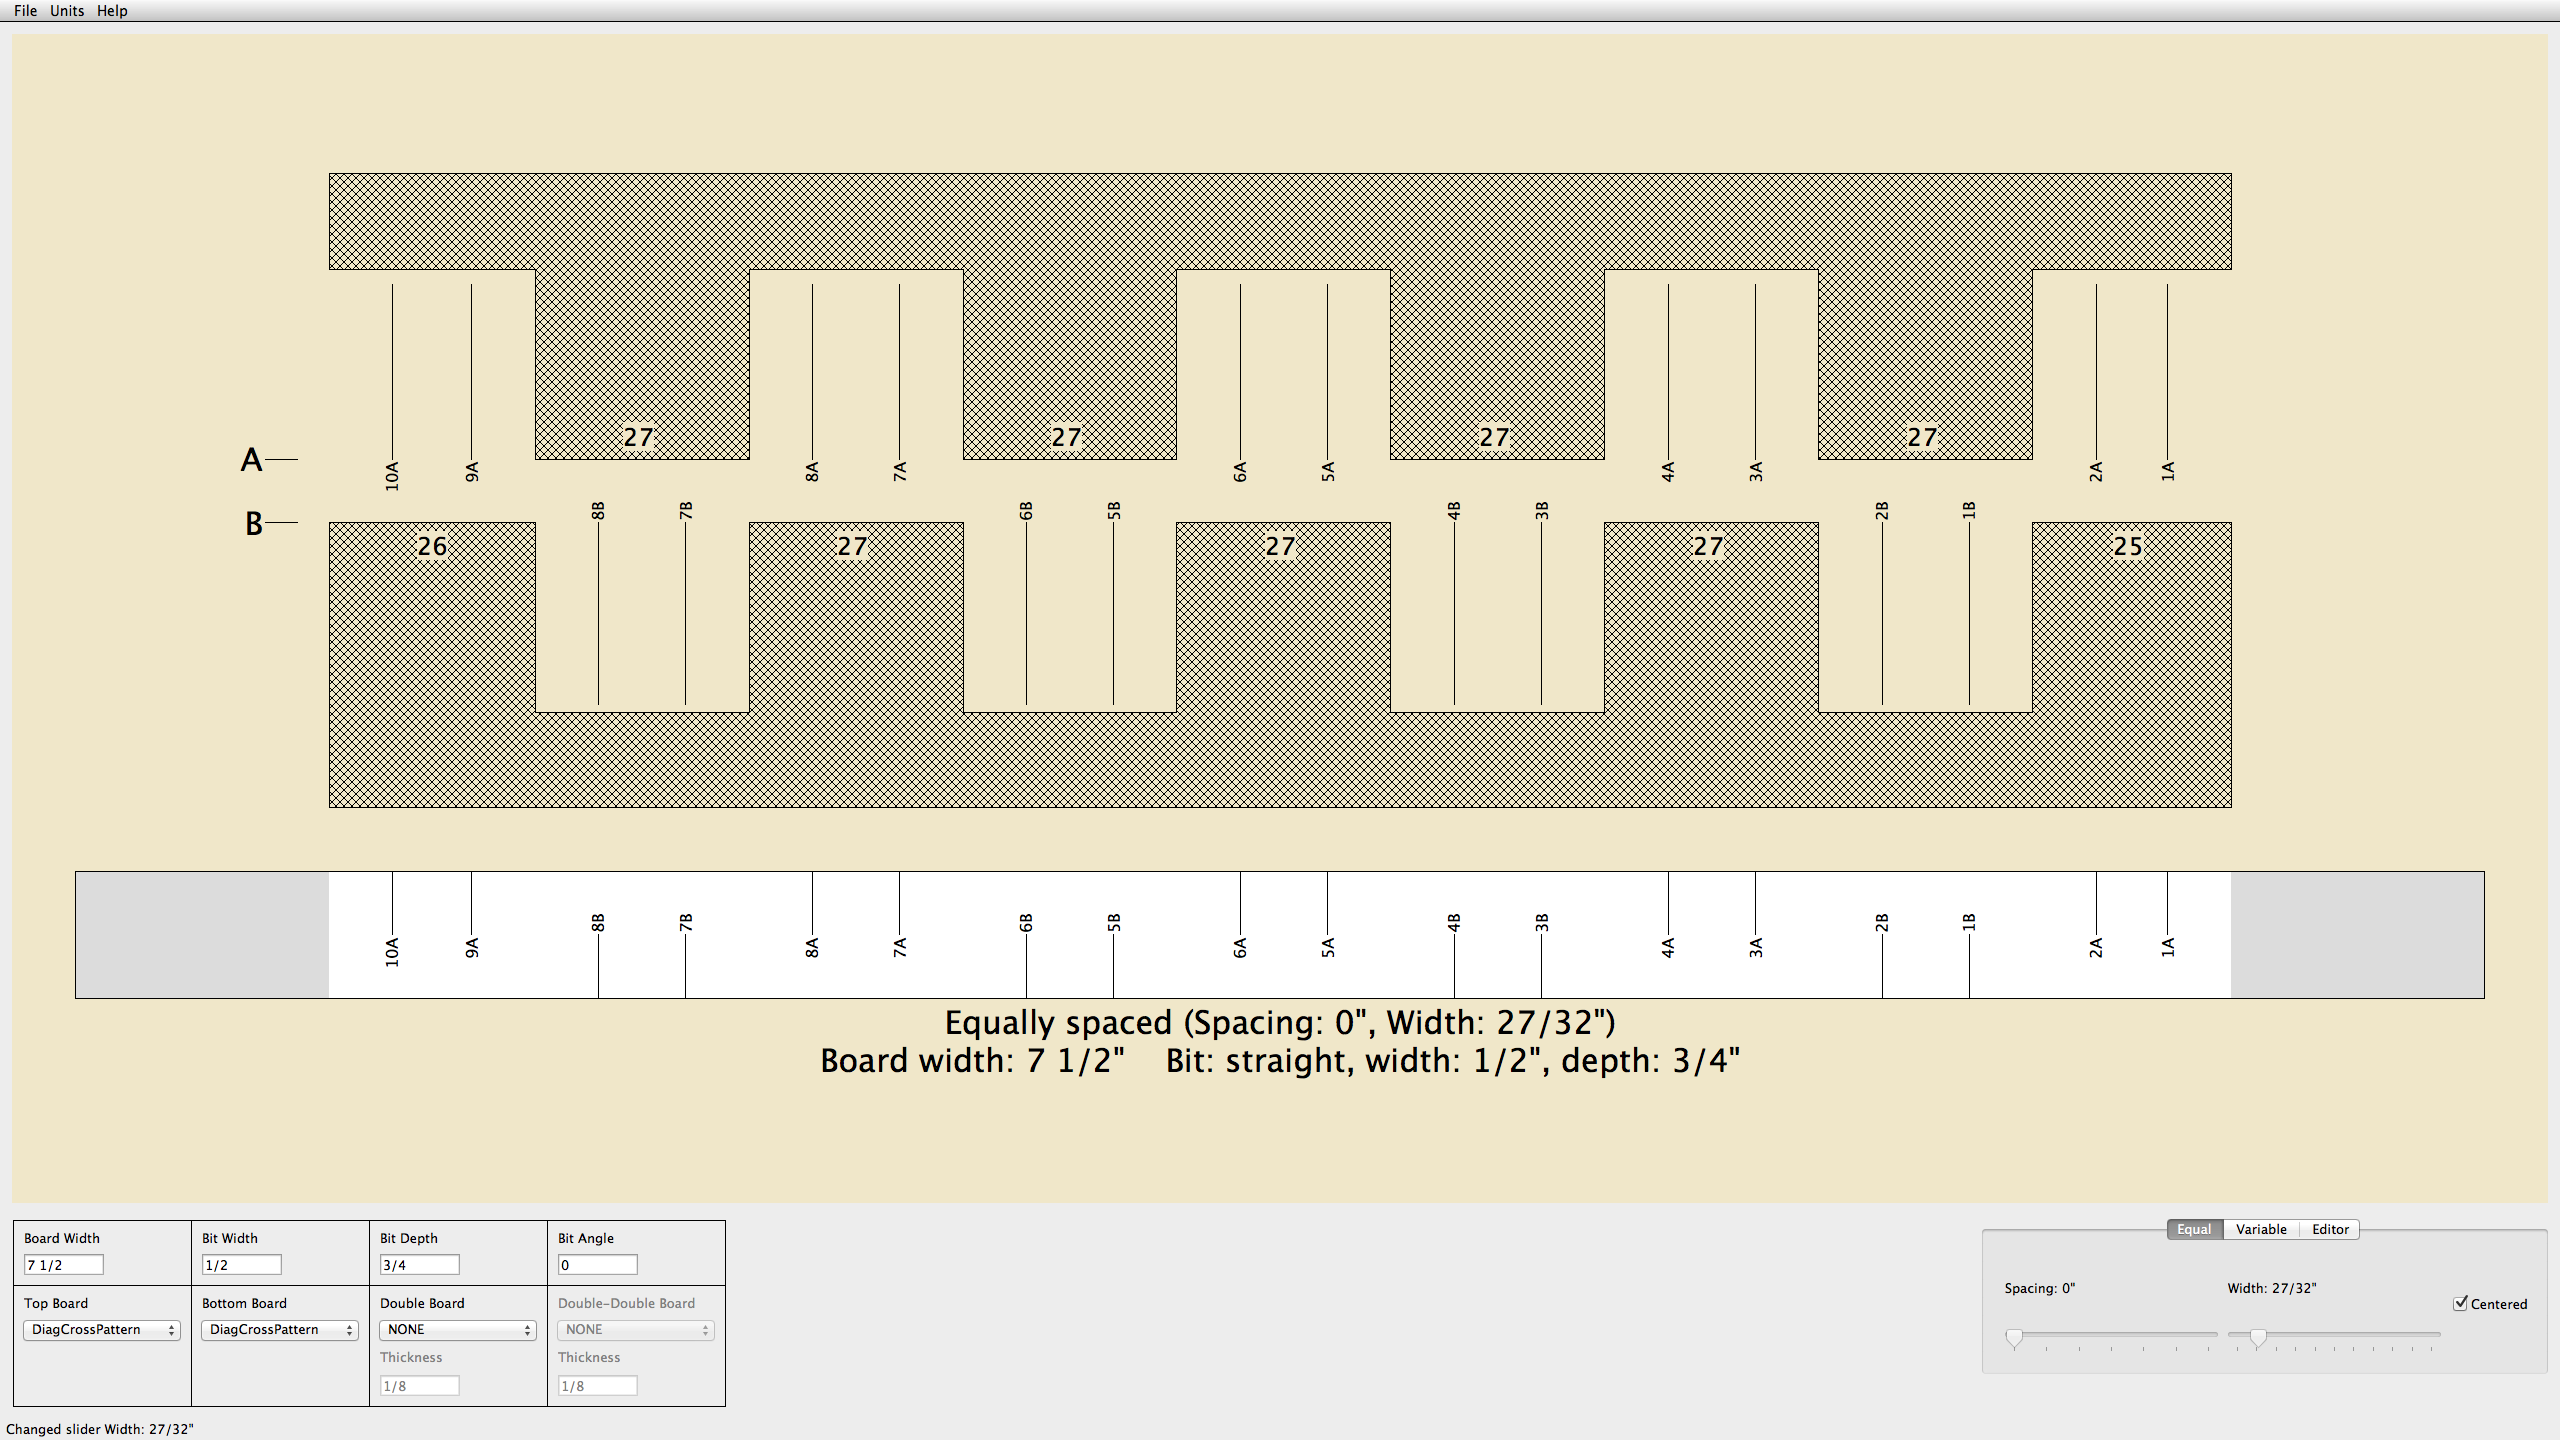
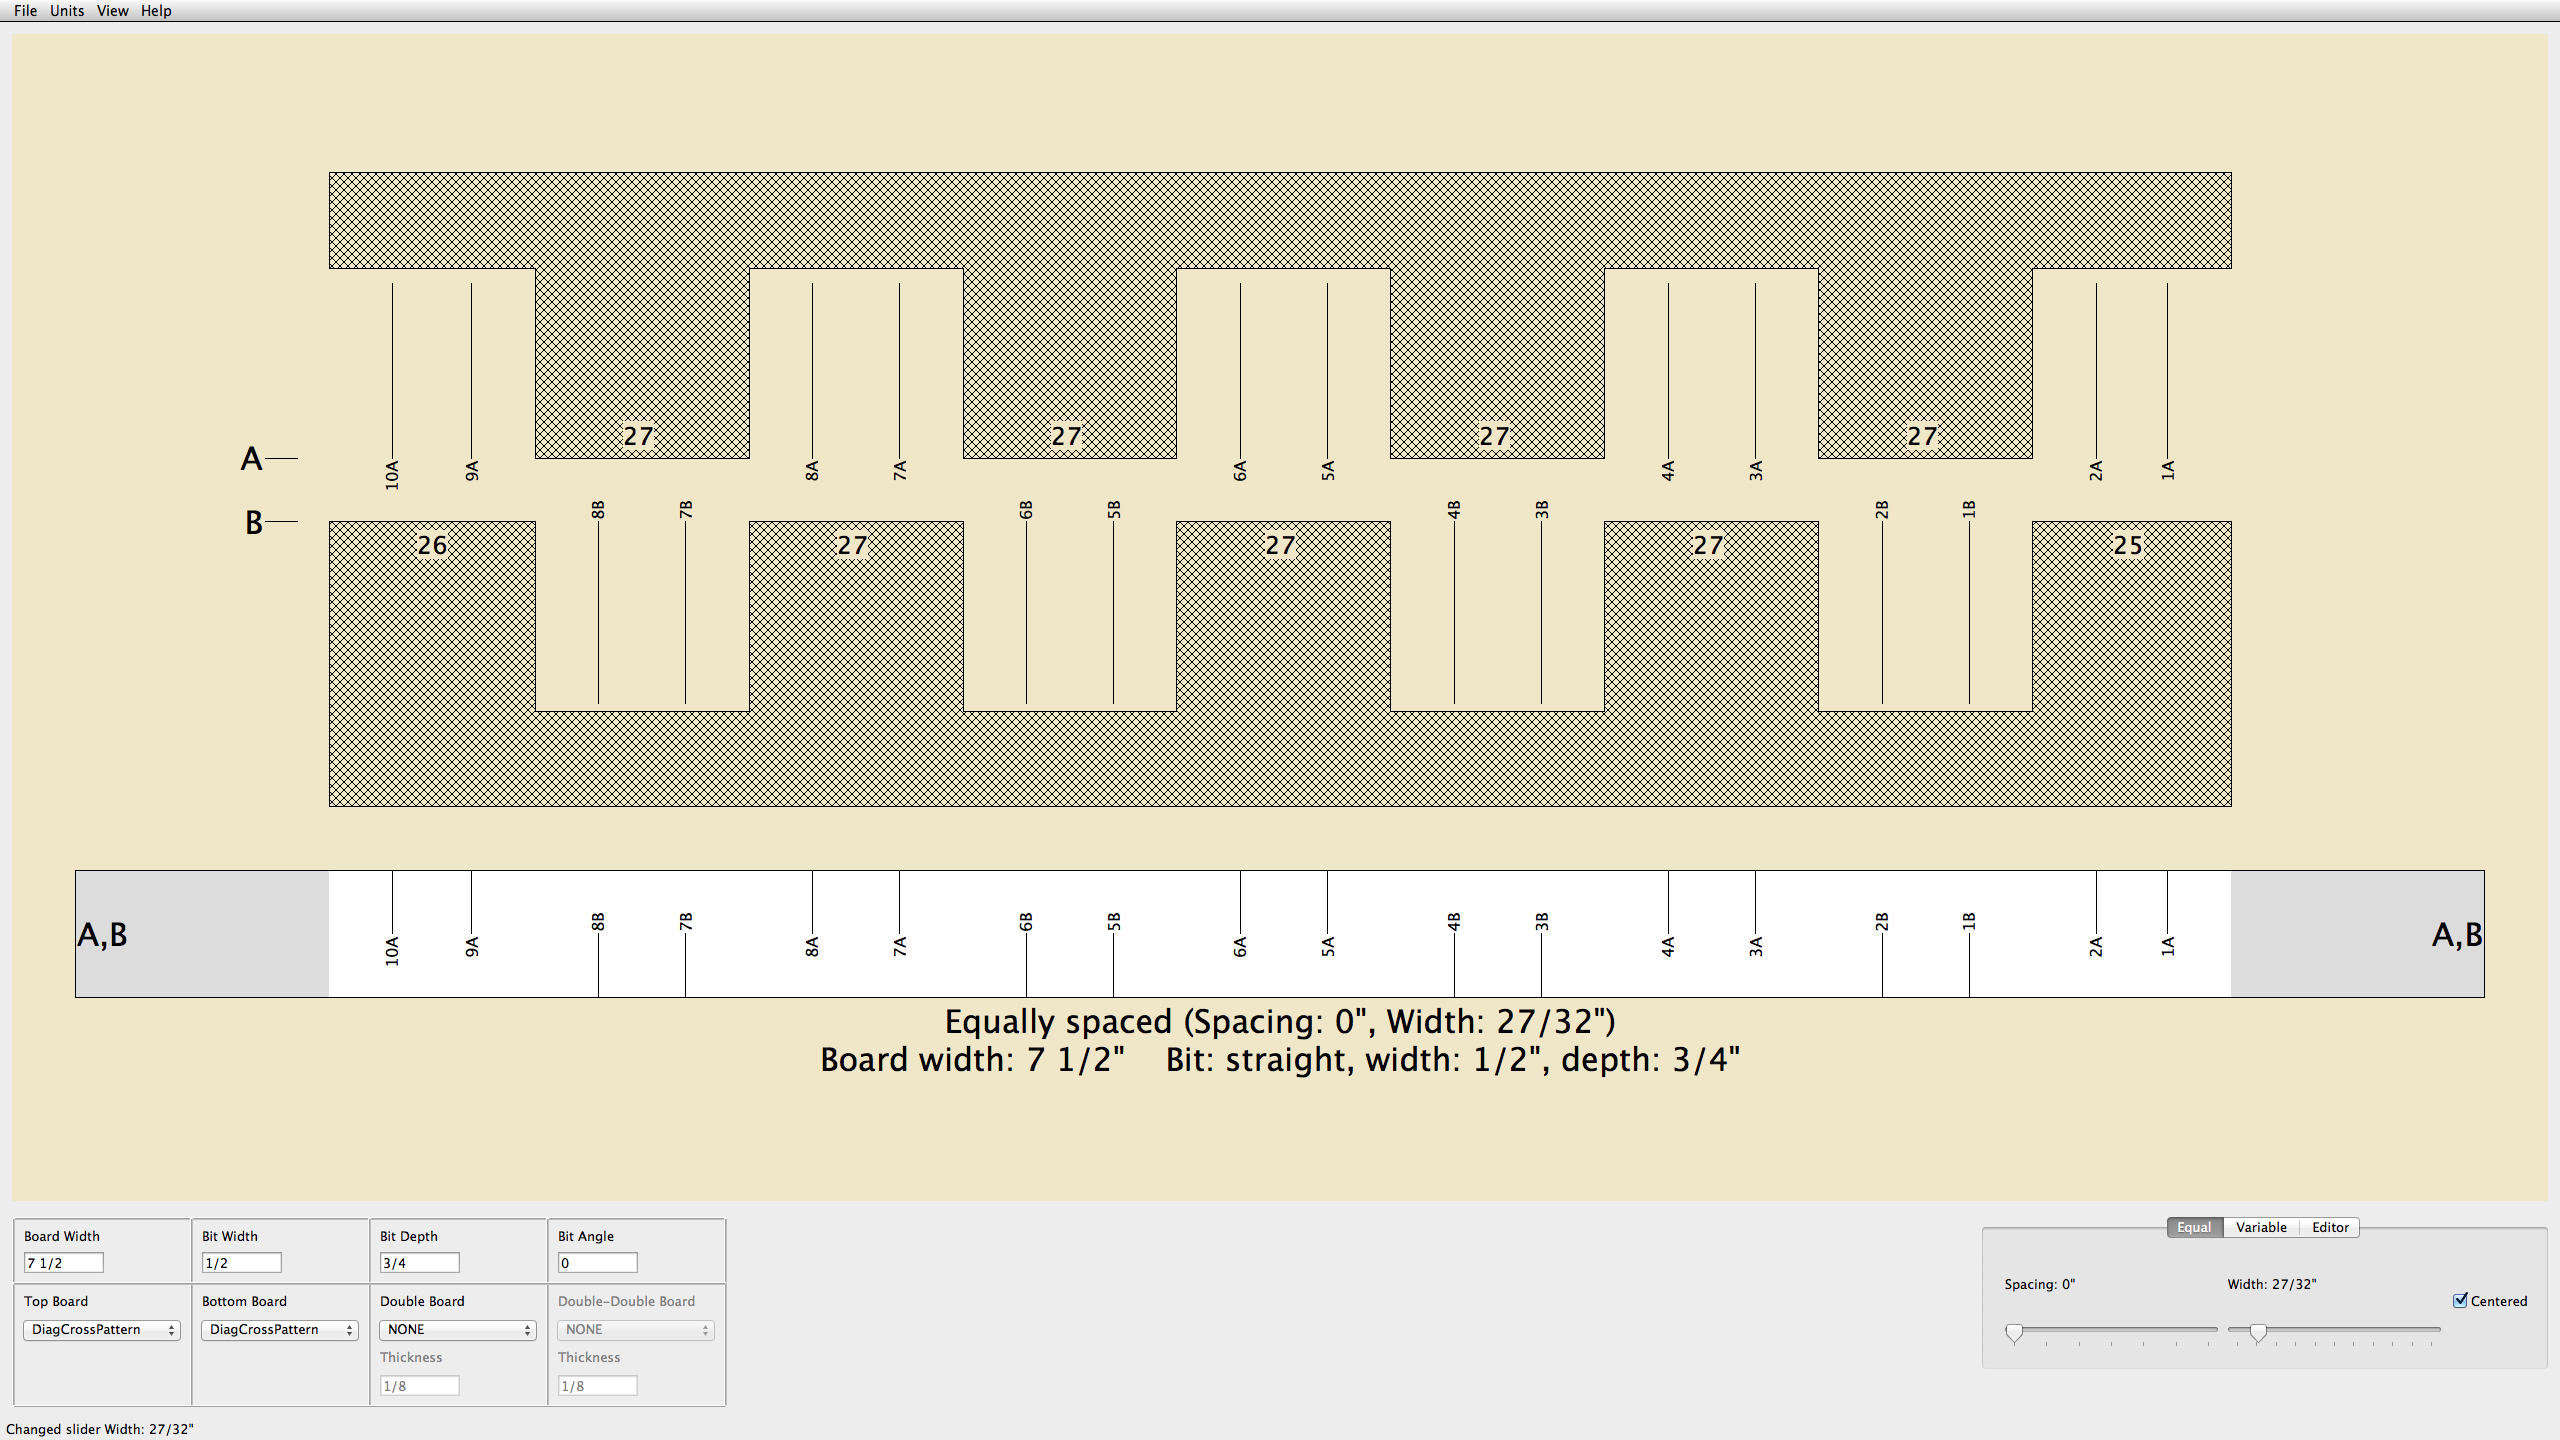
Version 0.7.0

diff --git a/index.html b/index.html
@@ -17,8 +17,8 @@
       <h2 class="project-tagline">pyRouterJig is a woodworking layout tool for creating box and dovetail joints</h2>
       <h3 class="project-tagline">Version 0.6.1 now available!</h2>
       <p>
-        <a href="https://github.com/lowrie/pyRouterJig/releases/download/v0.6.1/pyRouterJig.exe" class="btn">Download for Windows</a>
-        <a href="https://github.com/lowrie/pyRouterJig/releases/download/v0.6.1/pyRouterJig.app.zip" class="btn">Download for Mac</a>
+        <a href="https://github.com/lowrie/pyRouterJig/releases/download/v0.7.0/pyRouterJig.exe" class="btn">Download for Windows</a>
+        <a href="https://github.com/lowrie/pyRouterJig/releases/download/v0.7.0/pyRouterJig.app.zip" class="btn">Download for Mac</a>
         <a href="https://github.com/lowrie/pyRouterJig" class="btn">View on GitHub (source code)</a>
       </p>
       <p>

diff --git a/documentation.md b/documentation.md
@@ -374,7 +374,6 @@ are meant to be used to quickly generate image files (such as for this documenta
 to a file). {{ site.codename }} prints through a preview screen.  Press the printer icon
 at the upper-right of the preview screen to either select the printer, or to
 print to a file.
-* <b>Fullscreen (Ctrl-F)</b> Toggles full-screen mode.
 * <b>Quit (Ctrl-Q)</b> Quits {{ site.codename}}.  If you\'ve made any changes
 to the joint and haven\'t saved it, then you\'ll be warned.
 1. <b>Units:</b>
@@ -382,6 +381,14 @@ English and metric units are supported.  Note that
 changing units may cause accuracy issues, as a result of rounding.  For example, changing from English
 to metric units, and then changing back to English units, changes the
 dimension `7 1/2"` to `7 9/16"`.
+1. <b>View:</b>
+* <b>Fullscreen (Ctrl-F)</b> Toggles full-screen mode.
+* <b>Caul Template</b> Toggles the caul template.  The caul template is an
+additional Incra template that can be used to create clamping cauls for the
+joint with the LS Positioner.  It's assumed that the same router bit width is used
+to create the cauls.  The template follows the same pattern as that for the
+Top and Bottom Boards, but with narrower fingers.  By default, 1
+increment is removed from the side of each finger.
 1. <b>Help:</b>
 * <b>About (Ctrl-A)</b> Pops up a window showing the version and license.
 * <b>Documentation</b> Opens your default browser and goes to the
@@ -507,7 +514,8 @@ Acknowledgments
 Thanks to "PhilBa" at [routerforums.com](http://www.routerforums.com) for his
 numerous suggestions for improvement and testing help! I'm always amazed at
 the bugs he finds.  Among many great ideas, in particular he should be
-credited with the idea of storing the joint metadata in the `PNG` file.
+credited with the ideas of storing the joint metadata in the `PNG` file and
+the clamping caul template
 
 {{ site.codename }} depends upon and is extremely grateful for the following
 open-source software efforts:
